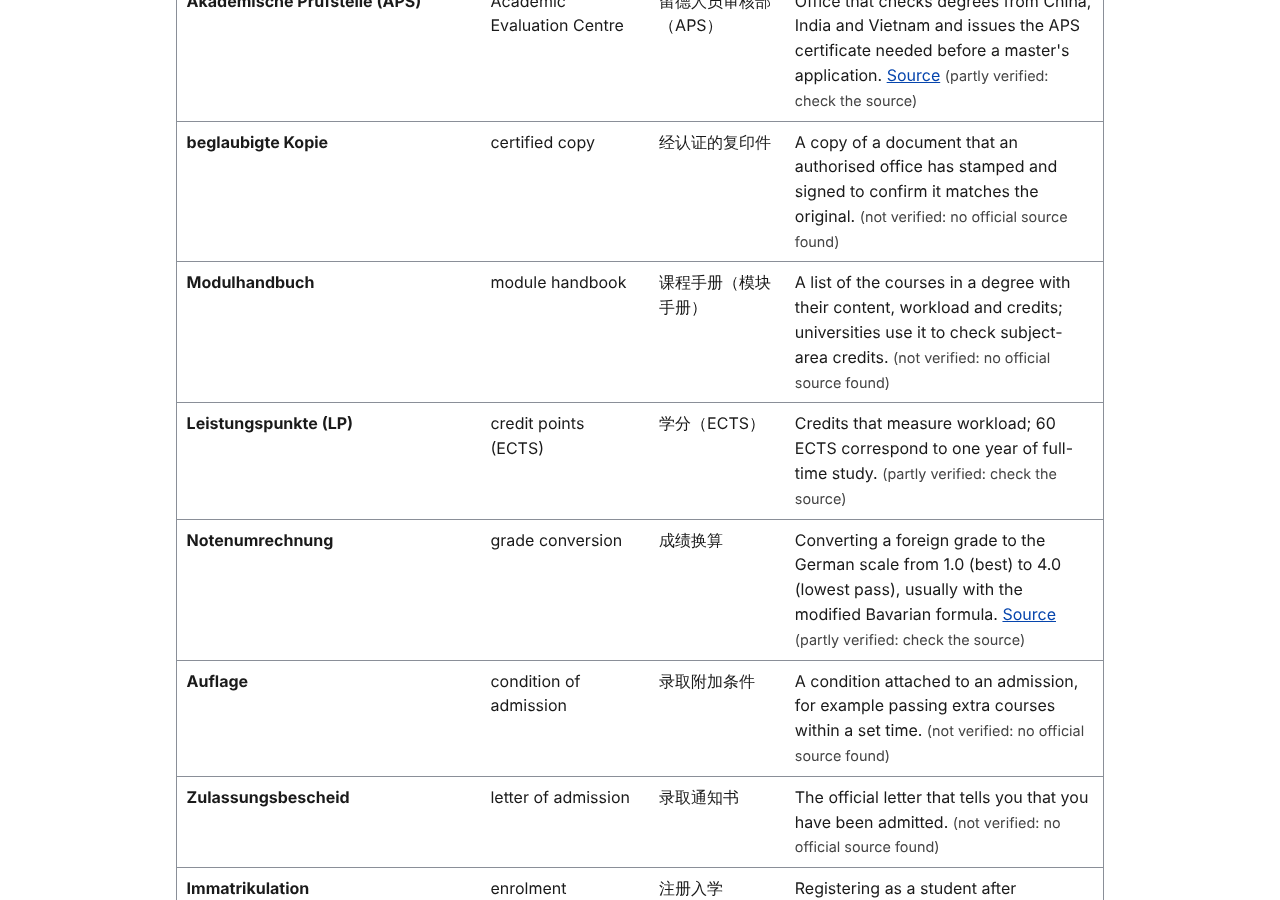
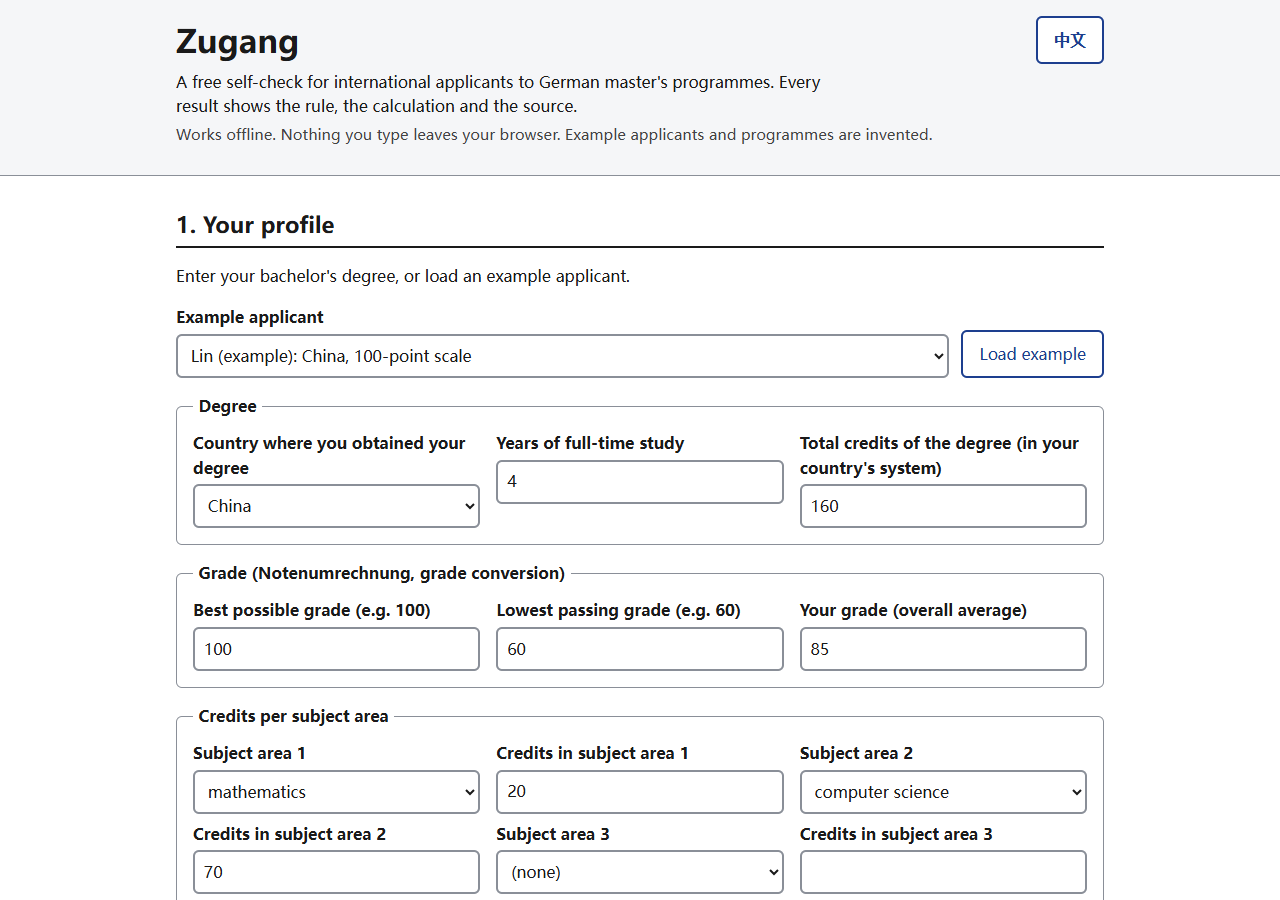
Re-check all sources locally; restore verification flags; retake screenshots
The cloud build could not reach the source sites and stored every fact as
partial. Each page was re-checked from the owner's laptop on 2026-11-02:

- 7 of 9 rules are now verified; grade-rounding is partial (the KMK rule
  that cuts after one decimal covers school-leaving certificates only);
  ects-estimate stays false. The 5 glossary entries with a source are verified.
- Rewrote what the pages do not support: uni-assist "whatever the result"
  (now prepayment and the refund cases of the terms), "submit and pay 8 weeks"
  and "order of arrival", "25 to 30 hours per credit", the uni-assist/ZAB
  sentence, "APS fees differ between sources".
- Replaced source URLs that redirect or return 404.
- The sources list also links sources_extra.
- Retook the five screenshots with headless Edge; form-en.png now shows the form.

node --test: 39 of 39 pass.

diff --git a/js/i18n.js b/js/i18n.js
@@ -114,7 +114,7 @@ export const STRINGS = {
     zh: '德国成绩从 1.0（最好）到 4.0（最低及格）。外国成绩通常用修正巴伐利亚公式（[[de:modifizierte bayerische Formel]]）换算。',
   },
   'warn.grade.orientation': { en: 'The result is for orientation only.', zh: '结果仅供参考。' },
-  'warn.grade.otherRules': { en: 'Universities may apply other rules, for example those of the ZAB.', zh: '大学可能采用其他规定，例如 ZAB 的规定。' },
+  'warn.grade.otherRules': { en: 'Universities may apply other rules.', zh: '大学可能采用其他规定。' },
   'warn.grade.twoPass': { en: 'The formula does not apply to scales with only two passing grades.', zh: '该公式不适用于只有两个及格等级的评分体系。' },
   'warn.grade.clamped': { en: 'Your grade lies outside the scale you entered, so the result was limited to 1.0 to 4.0. Check the scale.', zh: '你的成绩超出了所填写的分数范围，结果已限制在 1.0 至 4.0 之间。请检查分数范围。' },
   'res.ects': { en: 'Credits estimate ([[de:Leistungspunkte]], ECTS)', zh: '学分估算（[[de:Leistungspunkte]]，ECTS）' },
@@ -123,8 +123,8 @@ export const STRINGS = {
     zh: '每个学分约合 {perCredit} ECTS；你的学位约为 {degreeEcts} ECTS。',
   },
   'res.ects.rule': {
-    en: '60 ECTS correspond to one year of full-time study. Converting your credits proportionally (years × 60 / total credits) is Zugang\'s estimate: universities may convert by workload or by their own method.',
-    zh: '60 ECTS 相当于一年全日制学习。按比例换算学分（学年数 × 60 / 总学分）是 Zugang 的估算：大学可能按学习量或自己的方法换算。',
+    en: '60 ECTS are the equivalent of a full year of study. Converting your credits proportionally (years × 60 / total credits) is Zugang\'s estimate: universities may convert by workload or by their own method.',
+    zh: '60 ECTS 相当于一整年的学习量。按比例换算学分（学年数 × 60 / 总学分）是 Zugang 的估算：大学可能按学习量或自己的方法换算。',
   },
   'res.ects.none': { en: 'Enter years of study and total credits to see the estimate.', zh: '填写学习年数和总学分即可查看估算。' },
   'res.reqs': { en: 'Requirements ([[de:Zulassungsvoraussetzungen]])', zh: '入学要求（[[de:Zulassungsvoraussetzungen]]）' },
@@ -133,15 +133,15 @@ export const STRINGS = {
   'req.area': { en: 'Minimum ECTS in {areas}', zh: '{areas} 最低 ECTS' },
   'req.language': { en: 'Language ([[de:Sprachnachweis]])', zh: '语言（[[de:Sprachnachweis]]）' },
   'rule.grade': { en: 'Lower is better: your converted grade must be at or below the minimum.', zh: '数字越小越好：换算后的成绩必须等于或低于最低要求。' },
-  'rule.total-ects': { en: '60 ECTS correspond to one year of full-time study, so a degree counts as years × 60 ECTS.', zh: '60 ECTS 相当于一年全日制学习，因此学位按学年数 × 60 ECTS 计算。' },
+  'rule.total-ects': { en: '60 ECTS are the equivalent of a full year of study, so a degree counts as years × 60 ECTS.', zh: '60 ECTS 相当于一整年的学习量，因此学位按学年数 × 60 ECTS 计算。' },
   'rule.area': { en: 'Credits per area are converted proportionally (an estimate, not an official rule).', zh: '各领域学分按比例换算（这是估算，不是官方规则）。' },
   'rule.language': { en: 'The programme accepts only the certificates it lists.', zh: '该专业只认可其列出的证书。' },
 
   'chk.grade.met': { en: 'Your German grade {exact} (cut {truncated}, rounded {rounded}) meets the minimum of {min}.', zh: '你的德国成绩 {exact}（截断 {truncated}，四舍五入 {rounded}）满足最低要求 {min}。' },
   'chk.grade.notMet': { en: 'Your German grade {exact} (cut {truncated}, rounded {rounded}) does not meet the minimum of {min}.', zh: '你的德国成绩 {exact}（截断 {truncated}，四舍五入 {rounded}）不满足最低要求 {min}。' },
   'chk.grade.rounding': {
-    en: 'Your German grade {exact} meets the minimum of {min} one way but not the other (cut {truncated}, rounded {rounded}). No official rounding rule was found.',
-    zh: '你的德国成绩 {exact} 按一种方式满足最低要求 {min}，按另一种方式则不满足（截断 {truncated}，四舍五入 {rounded}）。未找到官方的取舍规则。',
+    en: 'Your German grade {exact} meets the minimum of {min} one way but not the other (cut {truncated}, rounded {rounded}). No official rule for degrees was found (a KMK agreement cuts the grade, but only for school-leaving certificates).',
+    zh: '你的德国成绩 {exact} 按一种方式满足最低要求 {min}，按另一种方式则不满足（截断 {truncated}，四舍五入 {rounded}）。未找到针对学位的官方取舍规则（KMK 协议规定截断，但只适用于中学毕业证书）。',
   },
   'chk.grade.noRequirement': { en: 'The programme\'s minimum grade is not known.', zh: '该专业的最低成绩要求未知。' },
   'chk.grade.noProfile': { en: 'Enter your grading scale and grade to compare with the minimum of {min}.', zh: '填写你的评分体系和成绩，以便与最低要求 {min} 比较。' },
@@ -187,7 +187,7 @@ export const STRINGS = {
   'res.timeline': { en: 'Timeline', zh: '时间安排' },
   'res.timeline.today': { en: 'Planned from today, {today}.', zh: '以今天（{today}）为起点规划。' },
   'tl.aps': { en: 'Apply for the APS certificate now. No official processing time was verified, so start early.', zh: '现在就申请 APS 证书。未核实到官方处理时长，请尽早开始。' },
-  'tl.uniAssist': { en: 'Submit documents and pay uni-assist, at least 8 weeks before the deadline (processing takes 4 to 6 weeks).', zh: '向 uni-assist 提交材料并付款，至少在截止日期前 8 周（处理需要 4 至 6 周）。' },
+  'tl.uniAssist': { en: 'Submit your uni-assist application and pay the fee, ideally at least 8 weeks before the deadline (processing starts once the fee has arrived and generally takes 4 to 6 weeks).', zh: '提交 uni-assist 申请并缴费，最好至少在截止日期前 8 周（费用到账后才开始处理，一般需要 4 至 6 周）。' },
   'tl.direct': { en: 'Submit your application directly to the university.', zh: '直接向大学提交申请。' },
   'tl.deadline': { en: 'Application deadline ([[de:Bewerbungsfrist]])', zh: '申请截止日期（[[de:Bewerbungsfrist]]）' },
   'tl.deadlineUnknown': { en: 'Deadline unknown: check the programme page.', zh: '截止日期未知：请查看专业网页。' },
@@ -195,9 +195,9 @@ export const STRINGS = {
 
   'res.fees': { en: 'Fees', zh: '费用' },
   'fee.ua': { en: 'uni-assist handling fee ([[de:Bearbeitungsentgelt]]) for {n} programme(s): EUR {total}.', zh: '{n} 个专业的 uni-assist 处理费（[[de:Bearbeitungsentgelt]]）：{total} 欧元。' },
-  'fee.ua.compare': { en: 'For comparison: 1 programme EUR {one}, 2 programmes EUR {two}. The fee is charged whatever the result.', zh: '对比：1 个专业 {one} 欧元，2 个专业 {two} 欧元。无论结果如何都要收费。' },
+  'fee.ua.compare': { en: 'For comparison: 1 programme EUR {one}, 2 programmes EUR {two}. Paid in advance; the terms do not list a negative result as a reason for a refund.', zh: '对比：1 个专业 {one} 欧元，2 个专业 {two} 欧元。须预付；条款列出的退款情形不包括审核结果不利。' },
   'fee.direct': { en: 'Direct application: no uni-assist fee. The university may have its own fee; check its page.', zh: '直接申请：无需 uni-assist 费用。大学可能另有收费，请查看其网页。' },
-  'fee.aps': { en: 'APS fee: not shown, because sources disagree. Check the official APS site for your country.', zh: 'APS 费用：不显示，因为各来源说法不一。请查看你所在国家的 APS 官方网站。' },
+  'fee.aps': { en: 'APS fee: not shown. The APS office responsible for your country publishes it; the source links to each office.', zh: 'APS 费用：不显示。金额以负责你所在国家的 APS 审核部网站为准；来源页面链接到各审核部。' },
   'fee.lang': { en: 'Language test fees: not shown; see the test provider.', zh: '语言考试费用：不显示；请查看考试机构。' },
 
   'btn.print': { en: 'Print', zh: '打印' },

diff --git a/js/checklist.js b/js/checklist.js
@@ -17,10 +17,10 @@ export function documents(profile, programme) {
   list.push({ id: 'language', de: 'Sprachnachweis', label: 'doc.language', why: 'doc.language.why', source: null, verified: false });
   list.push({ id: 'cv', de: 'Lebenslauf', label: 'doc.cv', why: 'doc.cv.why', source: null, verified: false });
   if (apsNeeded(profile, programme)) {
-    list.push({ id: 'aps', de: 'APS-Zertifikat (Akademische Prüfstelle)', label: 'doc.aps', why: 'doc.aps.why', source: 'aps-countries', verified: 'partial' });
+    list.push({ id: 'aps', de: 'APS-Zertifikat (Akademische Prüfstelle)', label: 'doc.aps', why: 'doc.aps.why', source: 'aps-countries', verified: true });
   }
   if (programme.route === 'uni-assist') {
-    list.push({ id: 'uni-assist', de: 'uni-assist-Bewerbung und Bearbeitungsentgelt', label: 'doc.uniAssist', why: 'doc.uniAssist.why', source: 'ua-fee', verified: 'partial' });
+    list.push({ id: 'uni-assist', de: 'uni-assist-Bewerbung und Bearbeitungsentgelt', label: 'doc.uniAssist', why: 'doc.uniAssist.why', source: 'ua-fee', verified: true });
   }
   return list;
 }

diff --git a/tests/data.test.js b/tests/data.test.js
@@ -31,10 +31,11 @@ test('all appendix A facts are present', () => {
     'grade-rounding', 'grade-two-pass', 'ua-fee', 'ua-timing']);
 });
 
-test('rules that sources contradict or lack are not marked verified', () => {
-  for (const id of ['grade-rounding', 'aps-fees', 'ects-estimate']) {
-    assert.equal(rules.find((r) => r.id === id).verified, false, id);
-  }
+test('open questions and estimates are not marked verified; no APS amount is shown', () => {
+  assert.equal(rules.find((r) => r.id === 'ects-estimate').verified, false);
+  assert.notEqual(rules.find((r) => r.id === 'grade-rounding').verified, true);
+  const aps = rules.find((r) => r.id === 'aps-fees');
+  assert.doesNotMatch(`${aps.text_en} ${aps.text_zh}`, /\d/);
 });
 
 test('rule-backed documents mirror the rule flags', () => {

diff --git a/js/app.js b/js/app.js
@@ -421,9 +421,10 @@ function renderGlossary() {
 }
 
 function renderRuleList() {
+  const link = (u) => `<a href="${esc(u)}" rel="noopener noreferrer">${esc(u)}</a>`;
   $('rule-list').innerHTML = state.data.rules.map((r) => {
     const text = state.lang === 'zh' ? r.text_zh : r.text_en;
-    const src = r.source ? `<a href="${esc(r.source)}" rel="noopener noreferrer">${esc(r.source)}</a>` : esc(r.source_note || T('src.none'));
+    const src = r.source ? [r.source, ...(r.sources_extra || [])].map(link).join(', ') : esc(r.source_note || T('src.none'));
     return `<li><strong>${esc(r.id)}</strong>: ${esc(text)}<br>${H('lbl.source')}: ${src}${vflag(r.verified)}</li>`;
   }).join('');
 }

diff --git a/tests/check.test.js b/tests/check.test.js
@@ -73,7 +73,7 @@ test('missing profile values give unknown, never a guess', () => {
   assert.equal(res.find((x) => x.id === 'ects-mathematics').status, 'unknown');
 });
 
-test('a grade between cut and rounded thresholds is unknown (no official rounding rule)', () => {
+test('a grade between cut and rounded thresholds is unknown (no rounding rule for degrees)', () => {
   // exact 2.455 -> cut 2.4, rounded 2.5; with min 2.4 the outcome depends on rounding
   const p = { ...lin, grade: { nMax: 100, nMin: 60, nD: 80.6 } };
   const r = checkProgramme(p, { ...ds, minGrade: 2.4 }).find((x) => x.id === 'grade');

diff --git a/js/ects.js b/js/ects.js
@@ -1,4 +1,4 @@
-// ECTS estimate per subject area. 60 ECTS = one year of full-time study.
+// ECTS estimate per subject area. 60 ECTS = a full year of study (rule "ects-year").
 // Proportional conversion (years × 60 / total credits) is OUR ESTIMATE, not an official rule.
 import { roundTo } from './grade.js';
 

diff --git a/js/timeline.js b/js/timeline.js
@@ -1,5 +1,5 @@
 // Back-planning from the application deadline (Bewerbungsfrist).
-// uni-assist: submit documents and pay at least 8 weeks before the deadline (rule "ua-timing").
+// uni-assist: apply and pay ideally at least 8 weeks before the deadline (rule "ua-timing").
 
 export const UA_WEEKS_BEFORE = 8;
 

diff --git a/docs/build-log.md b/docs/build-log.md
@@ -9,6 +9,7 @@ The MVP is built and pushed to branch `mvp`. Nothing was pushed to `main`, nothi
 - `node --test`: **39 tests, 39 pass, 0 fail, duration_ms 202.48** (see "Tests").
 - The page runs from `python3 -m http.server 8000`; Lin's example shows the numbers of design section 8 (checked in headless Chromium, see "Browser check").
 - **All source websites were blocked** in this session (see "Blocked URLs"), so no fact could be re-checked. Following hard rule 5, every fact the owner had marked `true` is stored as `partial`. Re-check them before submitting.
+- **Re-checked afterwards**: the owner's local session re-checked every source on 2026-11-02 and updated the data, the texts and the screenshots. 7 of 9 facts are now `true`, 1 `partial`, 1 `false` (Zugang's own estimate). See "Local re-check (2026-11-02, after the cloud session)".
 
 ## What was done, task by task (one commit each)
 
@@ -27,7 +28,7 @@ The MVP is built and pushed to branch `mvp`. Nothing was pushed to `main`, nothi
 Implementation decisions worth reviewing:
 
 - **APS is not one of the "met / not met" requirement rows.** It appears in the document checklist, the timeline ("start now") and the fees. Reason: the task's expected results ("Lin: ECTS gap in mathematics, everything else met"; "Priya: all requirements met, APS still to obtain") treat APS as a procedural step, not an eligibility criterion.
-- **Grade against minimum**: met if both the cut and the rounded value meet the minimum, not met if neither does, otherwise `unknown` ("no official rounding rule", source `grade-rounding`).
+- **Grade against minimum**: met if both the cut and the rounded value meet the minimum, not met if neither does, otherwise `unknown` ("no rounding rule for degrees", source `grade-rounding`).
 - **Total ECTS of the degree** is computed as years × 60 (rule `ects-year`).
 - **Example programmes without a stated minimum total ECTS** (Mechanical Engineering, Economics) show `unknown` / "ask the admissions office" for that row, as design section 7 requires, instead of an invented number.
 - **Invented values not given in the task**: Priya's subject credits (mathematics 30, computer science 60), Minh's total credits (150) and engineering credits (90). Chosen so the expected results of the task come out; all are synthetic.
@@ -115,15 +116,43 @@ To fix: allow `www.tum.de`, `www.uni-hamburg.de`, `www.uni-marburg.de`, `uni-ass
 
 ## What failed or is incomplete
 
-- No source could be re-checked (above). Nothing in the app is shown as "verified".
+- No source could be re-checked (above). Nothing in the app is shown as "verified". Fixed afterwards, see "Local re-check".
 - The first Playwright accessibility run timed out waiting for a visible `<option>`; fixed in the script (`state: 'attached'`). Not an app bug.
 - No real screen-reader test and no native-speaker review of the Chinese text.
 - No video (needs the owner).
 
+## Local re-check (2026-11-02, after the cloud session)
+
+Run by the owner's local Claude Code session on the owner's Windows 11 laptop, where the source sites are reachable. Each page was fetched again (old URLs that now redirect or return 404 were replaced) and every statement in `data/rules.json` was compared with the page text.
+
+| Rule | Page checked | Finding | Flag |
+|---|---|---|---|
+| `grade-formula` | TUM; KMK agreement "Vereinbarung über die Festsetzung der Gesamtnote bei ausländischen Hochschulzugangszeugnissen" (15.03.1991, version of 12.09.2013), annex; Universität Hamburg | Formula as stated. TUM ("unverbindlich", "erste Orientierung") and Hamburg ("zur Orientierung") call the result orientation only. The sentence that uni-assist generally uses the formula was not found on any page and was removed. | partial → true |
+| `grade-two-pass` | Universität Marburg | Listed under "Ausnahmen". The Chinese text was reworded without dashes. | partial → true |
+| `grade-rounding` | KMK agreement, § 3 (1) | School-leaving certificates: the grade is determined to one decimal and not rounded. No rule was found for degrees, so the app still shows both values, and a result that depends on rounding stays "unclear: ask". The KMK PDF is now this rule's source. | false → partial |
+| `aps-countries` | TUM APS page (the old URL redirects) | As stated. Added: documents from Hong Kong, Macao and Taiwan need no APS certificate. | partial → true |
+| `aps-fees` | TUM APS page | The page gives no amount and refers to the responsible APS office. That replaces "fees differ between sources"; the office links TUM gives (China, Vietnam, India) are in `sources_extra`. Still no amount shown. | false → true |
+| `ua-fee` | uni-assist pay-and-submit page (the old handling-fees URL redirects there); terms and conditions | EUR 75 and EUR 30 as stated. "Whatever the result" was replaced: fees are paid in advance and processing starts only once they have arrived (§ 15); refunds only for overpayment, fees the university pays, or withdrawal before the evaluation result (§ 14). The old FAQ link returns 404 and was removed. | partial → true |
+| `ua-timing` | uni-assist standard-procedure page (the old deadlines page returns 404) | "Apply as early as possible, ideally at least 8 weeks before the deadline"; processing "generally" 4 to 6 weeks after the online form. "Submit and pay at least 8 weeks" was softened to match, and "handled in order of arrival", which the page does not say, was removed. | partial → true |
+| `ects-year` | European Commission ECTS page | "60 ECTS credits are the equivalent of a full year of study or work." "25 to 30 hours per credit" (ECTS Users' Guide 2015) was dropped, because the guide itself was not re-checked. | partial → true |
+| `ects-estimate` | none | Zugang's own estimate, unchanged. | false |
+
+Result: 7 of 9 rules `true`, 1 `partial`, 1 `false`. Glossary: the 5 of 27 entries with a source (Akademische Prüfstelle, Leistungspunkte, Notenumrechnung, uni-assist, Bearbeitungsentgelt) are now `true`; the explanations of Leistungspunkte, uni-assist and Bearbeitungsentgelt were reworded to match their pages ("whatever the result" removed). The other 22 stay `false`.
+
+Other changes in the same commit:
+
+- `js/i18n.js`: the rounding note, the uni-assist timeline item, the fee comparison, the APS fee line, the grade warning about other rules (the ZAB example removed, no source for it) and the ECTS rule wording now match the re-checked rules.
+- `js/checklist.js`: the APS and uni-assist documents mirror the new flags.
+- `js/app.js`: the "Sources and verification status" list also links each rule's `sources_extra`.
+- `grade-formula` keeps the TUM page as its main source and lists the KMK PDF under `sources_extra`, so the grade card shows two different links (TUM for the formula, KMK for rounding).
+- `tests/data.test.js`: the test that required `grade-rounding` and `aps-fees` to be `false` now checks that `ects-estimate` is `false`, that `grade-rounding` is not `true`, and that the APS fee text contains no amount. One test name in `tests/check.test.js` was updated.
+- `node --test --test-reporter=tap` (Node v24.15.0): 39 tests, 39 pass, 0 fail.
+- Screenshots in `docs/img/` retaken from the served page with headless Microsoft Edge, driven over the DevTools protocol (1280 px wide, `?example=lin`; phone view 390 × 844 CSS px at device scale 2). No page errors, and no requests to any host other than the local server. `form-en.png` previously showed part of the glossary; it now shows the filled-in form.
+
 ## Owner's checklist
 
 1. Review the app locally: `git fetch origin mvp && git checkout mvp`, `python3 -m http.server 8000`, open http://localhost:8000/?example=lin ; run `node --test`.
-2. Re-check the sources in "Blocked URLs" and update the flags (or allow the hosts and ask a session to do it). Find the official ECTS Users' Guide URL. Proofread the Chinese text.
+2. Sources: re-checked by the local session (see "Local re-check"). Still open: proofread the Chinese text.
 3. Merge `mvp` into `main` yourself if you are happy with it.
 4. Make the repository public when ready.
 5. Deploy: GitHub Pages from the repository root (steps in `README.md`), and keep the link live until at least 2026-11-22.

diff --git a/README.md b/README.md
@@ -28,13 +28,13 @@ Lin has a 4-year bachelor's degree from China: 100-point scale, lowest pass 60, 
   - German grade **2.125** (1 + 3 × (100 − 85) / (100 − 60)), which meets 2.5.
   - **1.5** ECTS per credit (4 × 60 / 160), so mathematics comes to **30 ECTS, 6 short of 36**.
   - **APS certificate needed**: start now.
-  - uni-assist documents and payment by **2027-05-20** (8 weeks before the deadline).
+  - uni-assist application and fee ideally by **2027-05-20** (8 weeks before the deadline).
   - uni-assist fee **EUR 75** for one programme, **EUR 105** for two.
 
 ## Features
 
 - Profile form with three invented example applicants (Lin, Priya, Minh), each exercising a different path.
-- Grade conversion with the modified Bavarian formula, steps shown, with exact, cut and rounded values (no official rounding rule was found, so both are shown).
+- Grade conversion with the modified Bavarian formula, steps shown, with exact, cut and rounded values (no rounding rule for degrees was found, so both are shown).
 - ECTS estimate per subject area, clearly labelled as an estimate.
 - Requirement check against one of three invented example programmes, or requirements you type in. A missing value gives "ask the admissions office", never a guess.
 - Document checklist, back-planned timeline and official fees.
@@ -74,33 +74,34 @@ Semantic HTML with one `h1` and numbered `h2` sections; a label for every field;
 
 ## Data and sources
 
-All applicants and programmes are invented and labelled as examples. The rules come from `data/rules.json`; each has a source and a verification flag. The owner checked these sources on 2026-11-02. In the build session the source sites were blocked by the network policy, so no fact could be re-checked, and every fact the owner had marked true is shown as **partly verified** until it is re-checked.
+All applicants and programmes are invented and labelled as examples. The rules come from `data/rules.json`; each has a source and a verification flag. The owner checked these sources on 2026-11-02 before the build. The cloud build session could not reach the source sites, so it stored every fact as partly verified. A local session on the owner's laptop then re-checked each page the same day, rewrote the statements the pages did not support, and set the flags below ([build log](docs/build-log.md), "Local re-check").
 
 | Fact | Source | Status in the app |
 |---|---|---|
-| Modified Bavarian formula; result is orientation only | [TUM](https://www.tum.de/studium/bewerbung/infoportal-bewerbung/bayerische-formel), [Universität Hamburg](https://www.uni-hamburg.de/campuscenter/bewerbung/international/studium-mit-abschluss/anerkennung-auslaendischer-schulbildung/notenumrechner.html) | partial |
-| Formula does not apply to scales with only two passing grades (one university's statement) | [Universität Marburg](https://www.uni-marburg.de/de/fb02/studium/pruefungsbuero/anerkennungen/notenumrechnung-grade-conversion) | partial |
-| No official rule on cutting or rounding the converted grade | none | false: both values shown |
-| APS certificate needed for degrees from China, Vietnam, India | [TUM APS page](https://www.tum.de/en/studies/application/aps) | partial |
-| APS fees | sources disagree | false: no amount shown |
-| uni-assist fee: EUR 75 first programme, EUR 30 each additional | [uni-assist](https://uni-assist.de/en/how-to-apply/pay-all-fees/handling-fees) | partial |
-| uni-assist: submit and pay 8 weeks before the deadline; 4 to 6 weeks processing | [uni-assist](https://uni-assist.de/en/how-to-apply/plan-your-application/deadlines-processing-time) | partial |
-| 60 ECTS = one year of full-time study | ECTS Users' Guide 2015 (URL not yet verified) | partial |
-| Proportional credit conversion | Zugang's own estimate | false: labelled as an estimate |
+| Modified Bavarian formula; result is orientation only | [TUM](https://www.tum.de/studium/bewerbung/infoportal-bewerbung/bayerische-formel), [KMK agreement](https://www.kmk.org/fileadmin/Dateien/pdf/ZAB/Hochschulzugang_Beschluesse_der_KMK/GesNot05.pdf) (annex), [Universität Hamburg](https://www.uni-hamburg.de/campuscenter/bewerbung/international/studium-mit-abschluss/anerkennung-auslaendischer-schulbildung/notenumrechner.html) | verified |
+| Formula does not apply to scales with only two passing grades (one university's statement) | [Universität Marburg](https://www.uni-marburg.de/de/fb02/studium/pruefungsbuero/anerkennungen/notenumrechnung-grade-conversion) | verified |
+| Cutting or rounding the converted grade: the KMK agreement cuts after one decimal, but only for school-leaving certificates; no rule was found for degrees | [KMK agreement](https://www.kmk.org/fileadmin/Dateien/pdf/ZAB/Hochschulzugang_Beschluesse_der_KMK/GesNot05.pdf) (§ 3 (1)) | partly verified: both values shown |
+| APS certificate needed for degrees from China, Vietnam, India; not for documents from Hong Kong, Macao, Taiwan | [TUM APS page](https://www.tum.de/en/studies/application/application-info-portal/aps) | verified |
+| APS fee: published by the APS office responsible for you | [TUM APS page](https://www.tum.de/en/studies/application/application-info-portal/aps); offices for [China](https://www.aps.org.cn/zh/verfahren-und-services-deutschland/chinaverfahren), [Vietnam](https://vietnam.diplo.de/vn-de/themen/kultur/aps/1236800), [India](https://aps-india.de/) | verified: no amount shown |
+| uni-assist fee: EUR 75 first programme, EUR 30 each additional; paid in advance; refunds only in the cases the terms list | [uni-assist](https://www.uni-assist.de/en/how-to-apply/apply-online/pay-submit/), [terms § 14 and § 15](https://www.uni-assist.de/en/terms-and-conditions/) | verified |
+| uni-assist: apply ideally at least 8 weeks before the deadline; processing generally takes 4 to 6 weeks | [uni-assist](https://www.uni-assist.de/en/how-to-apply/plan-your-application/standard-procedure/) | verified |
+| 60 ECTS = a full year of study | [European Commission](https://education.ec.europa.eu/education-levels/higher-education/inclusive-and-connected-higher-education/european-credit-transfer-and-accumulation-system) | verified |
+| Proportional credit conversion | Zugang's own estimate | not verified: labelled as an estimate |
 
 ## Limitations
 
 - Rules differ by university and programme. Always check the official page of your programme.
-- The grade formula gives orientation only; universities may apply other rules (for example the ZAB's).
+- The grade formula gives orientation only; universities may apply other rules.
 - The ECTS conversion is an estimate; universities may convert by workload or their own method.
-- APS and language-test fees are not shown, because sources disagree.
-- Some facts are only partly verified (see above).
+- APS and language-test fees are not shown: the APS offices and the test providers publish them.
+- Whether the converted grade is cut or rounded is only partly verified (see above).
 - Not legal advice. Not affiliated with uni-assist, DAAD, APS or any university.
 
 ## Authorship, AI assistance and prior work
 
 - The owner, a master's student at TU Berlin, chose the problem, wrote the design together with Claude and reviews the build.
 - Claude Code (Anthropic) wrote the code and the docs in one cloud session on 2026-11-02, following [the design](docs/superpowers/specs/2026-11-02-zugang-design.md) and [the task](docs/cloud-task.md).
+- A local Claude Code session on the owner's laptop re-checked every source the same day, corrected the data and the texts, and retook the screenshots ([build log](docs/build-log.md), "Local re-check").
 - Prior work: none. The repository was created on 2026-11-02, inside the AccessED development period (2026-10-17 to 2026-11-20). The design was written a few hours before the code. There is no earlier code.
 - Libraries: none. Fonts: system fonts. Data: synthetic, plus public rules cited above.
 

diff --git a/docs/submission.md b/docs/submission.md
@@ -26,7 +26,7 @@ A static page: HTML, CSS and plain JavaScript modules, no libraries. The rules a
 
 ## Challenges
 
-- **Not stating unverified rules as fact.** Sources disagree on APS fees and there is no official rule for rounding the converted grade, so the app shows no APS amount and shows both cut and rounded grades. During the build the source websites could not be reached, so every fact is labelled "partly verified" until it is re-checked.
+- **Not stating unverified rules as fact.** Each APS office sets its own fee, and the only official rounding rule we found (a KMK agreement: cut after one decimal) covers school-leaving certificates, not degrees. So the app shows no APS amount and shows both cut and rounded grades. The build session could not reach the source websites; a second pass re-checked every page and rewrote the statements the pages did not support before marking anything verified.
 - **Two languages plus German terms.** UI strings mark German terms so they keep a German `lang` attribute inside English or Chinese sentences, for screen readers.
 - **Credits that are not ECTS.** There is no official conversion, so the app uses a proportional estimate and labels it as one.
 
@@ -44,14 +44,14 @@ A static page: HTML, CSS and plain JavaScript modules, no libraries. The rules a
 
 ## What's next
 
-- Re-check every source and raise the verification flags.
+- Re-check the sources before each application cycle; fees and processing times change.
 - Let users compare several programmes at once.
 - More languages (Vietnamese, Hindi) and more glossary terms, reviewed by native speakers.
 - Feedback from real applicants and student advisers.
 
 ## Built with
 
-HTML, CSS, JavaScript (ES modules), JSON, Node.js test runner (`node --test`), Playwright (screenshots only, not part of the app). No libraries, no APIs.
+HTML, CSS, JavaScript (ES modules), JSON, Node.js test runner (`node --test`), Playwright and headless Microsoft Edge (checks and screenshots only, not part of the app). No libraries, no APIs.
 
 ## Learning story
 
@@ -59,7 +59,7 @@ HTML, CSS, JavaScript (ES modules), JSON, Node.js test runner (`node --test`), P
 - **User**: international applicants, especially from China, India and Vietnam, and the people helping them.
 - **Solution**: a free offline page that applies the public rules to your case and explains each result with its rule, calculation and source, in English and Chinese.
 - **Tools**: plain HTML, CSS and JavaScript; Node's test runner; Claude for the design and Claude Code for the code and docs.
-- **Challenges**: conflicting or missing official rules; source sites unreachable during the build; keeping German terms accessible inside two other languages.
+- **Challenges**: conflicting or missing official rules; source sites unreachable during the build, so a second pass re-checked them; keeping German terms accessible inside two other languages.
 - **What we learned**: say what is uncertain, show the calculation, design accessibility in from the start.
 
 ### One concrete before/after
@@ -67,7 +67,7 @@ HTML, CSS, JavaScript (ES modules), JSON, Node.js test runner (`node --test`), P
 Lin (an invented applicant) has a 4-year degree from China: 100-point scale, lowest pass 60, average 85, 160 credits, 20 in mathematics. The target is an example data science programme: minimum grade 2.5, at least 36 ECTS in mathematics, via uni-assist, deadline 2027-07-15.
 
 - **Before**: Lin pays an agency, or reads a dozen German pages and is still not sure, and might pay the uni-assist fee anyway.
-- **After**: in one page Lin sees German grade 2.125 (meets 2.5), 1.5 ECTS per credit so mathematics is 30 ECTS, 6 short of 36; APS needed, start now; uni-assist documents and payment by 2027-05-20; fee EUR 75 for one programme, EUR 105 for two. Each number has its calculation and source. (Values from the code, asserted in `tests/check.test.js`.)
+- **After**: in one page Lin sees German grade 2.125 (meets 2.5), 1.5 ECTS per credit so mathematics is 30 ECTS, 6 short of 36; APS needed, start now; uni-assist application and fee ideally by 2027-05-20; fee EUR 75 for one programme, EUR 105 for two. Each number has its calculation and source. (Values from the code, asserted in `tests/check.test.js`.)
 
 ## Try it
 
@@ -77,14 +77,14 @@ Lin (an invented applicant) has a 4-year degree from China: 100-point scale, low
 
 ## Limitations
 
-Rules differ by university; the grade formula gives orientation only; the ECTS conversion is an estimate; APS and language-test fees are not shown because sources disagree; some facts are only partly verified; not legal advice; not affiliated with uni-assist, DAAD, APS or any university.
+Rules differ by university; the grade formula gives orientation only; the ECTS conversion is an estimate; APS and language-test fees are not shown (the APS offices and the test providers publish them); whether the converted grade is cut or rounded is only partly verified; not legal advice; not affiliated with uni-assist, DAAD, APS or any university.
 
 ## Disclosure
 
 - **Libraries**: none.
 - **Data**: synthetic. All applicants and programmes are invented and labelled as examples. Rules cite public official pages (listed in the README).
 - **Assets**: none besides our own screenshots; system fonts only.
-- **AI assistance**: the owner, a master's student at TU Berlin, chose the problem, wrote the design together with Claude and reviews the build. Claude Code wrote the code and the docs in one cloud session.
+- **AI assistance**: the owner, a master's student at TU Berlin, chose the problem, wrote the design together with Claude and reviews the build. Claude Code wrote the code and the docs in one cloud session; a local Claude Code session re-checked the sources the same day.
 - **Prior work**: none. The repository was created on 2026-11-02, inside the development period. The design was written a few hours before the code.
 
 ## Links

diff --git a/docs/judging.md b/docs/judging.md
@@ -13,7 +13,7 @@ Each criterion is scored 1 to 5. Below: what Zugang does for it and where to che
 ## Learning Value
 
 - Every result card shows the rule in one sentence, the calculation step by step, the source link with its verification status, and the next step. Code: `js/app.js` (`render`), strings in `js/i18n.js`.
-- The grade card shows the formula with the applicant's numbers filled in (`js/grade.js`, `steps`), plus exact, cut and rounded values, because no official rounding rule exists.
+- The grade card shows the formula with the applicant's numbers filled in (`js/grade.js`, `steps`), plus exact, cut and rounded values, because no rounding rule for degrees was found (the KMK rule that cuts covers school-leaving certificates only).
 - The ECTS card shows the per-credit factor and each area's calculation (`js/ects.js`), labelled as an estimate.
 - The glossary teaches 27 German admission terms in DE, EN and ZH with plain explanations (`data/glossary.json`, section 4 of the page, `docs/img/glossary.png`).
 - German terms stay next to translations ("Bewerbungsfrist", "Modulhandbuch"), so users can read the official pages afterwards.
@@ -31,5 +31,5 @@ Each criterion is scored 1 to 5. Below: what Zugang does for it and where to che
 - Runs with `python3 -m http.server 8000`; `?example=lin` opens straight on Lin's results.
 - `node --test`: 39 tests, 39 passing, no dependencies (`docs/build-log.md` has the command output).
 - Pure functions with small interfaces (`js/grade.js`, `js/ects.js`, `js/check.js`, `js/checklist.js`, `js/timeline.js`, `js/fees.js`), data in `data/*.json`.
-- Honest about uncertainty: every fact in `data/rules.json` has a verification flag; unknown requirements show "ask the admissions office"; limitations listed in `README.md`.
+- Honest about uncertainty: every fact in `data/rules.json` has a verification flag, and every source was re-checked on 2026-11-02 (7 of 9 facts verified, 1 partly verified, 1 is Zugang's own estimate; `docs/build-log.md`, "Local re-check"); unknown requirements show "ask the admissions office"; limitations listed in `README.md`.
 - Design written before the code: `docs/superpowers/specs/2026-11-02-zugang-design.md`.
